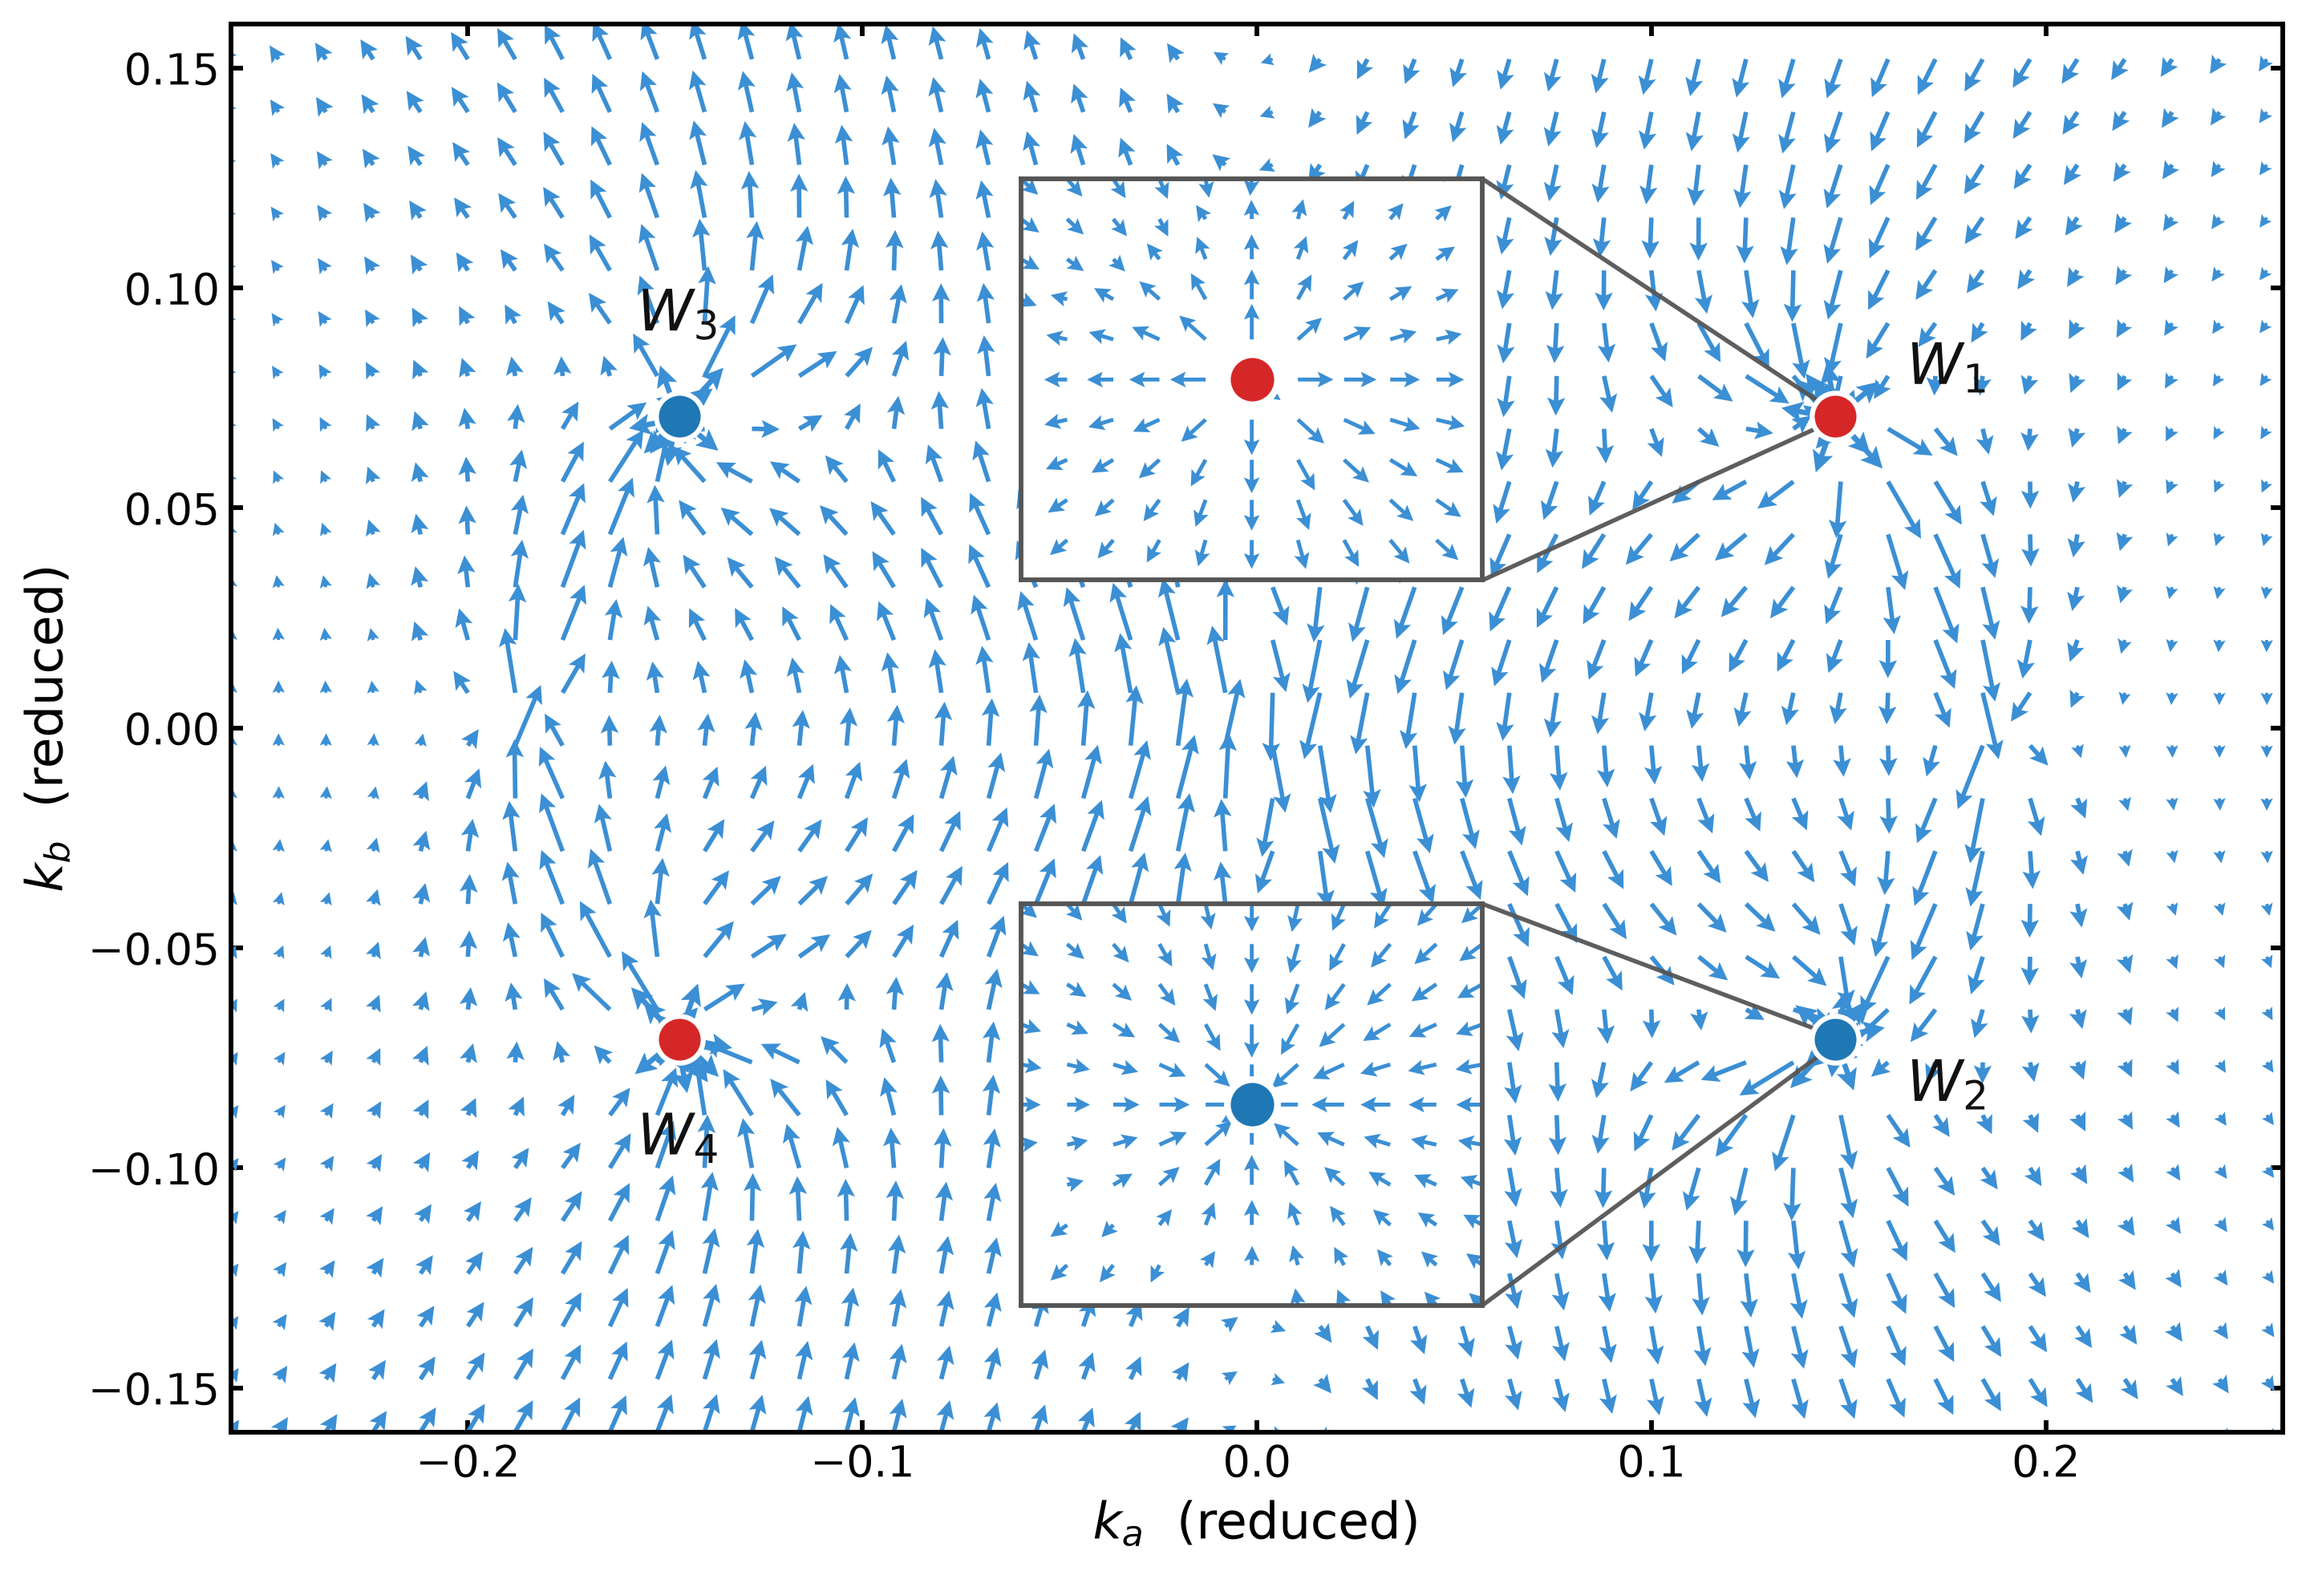
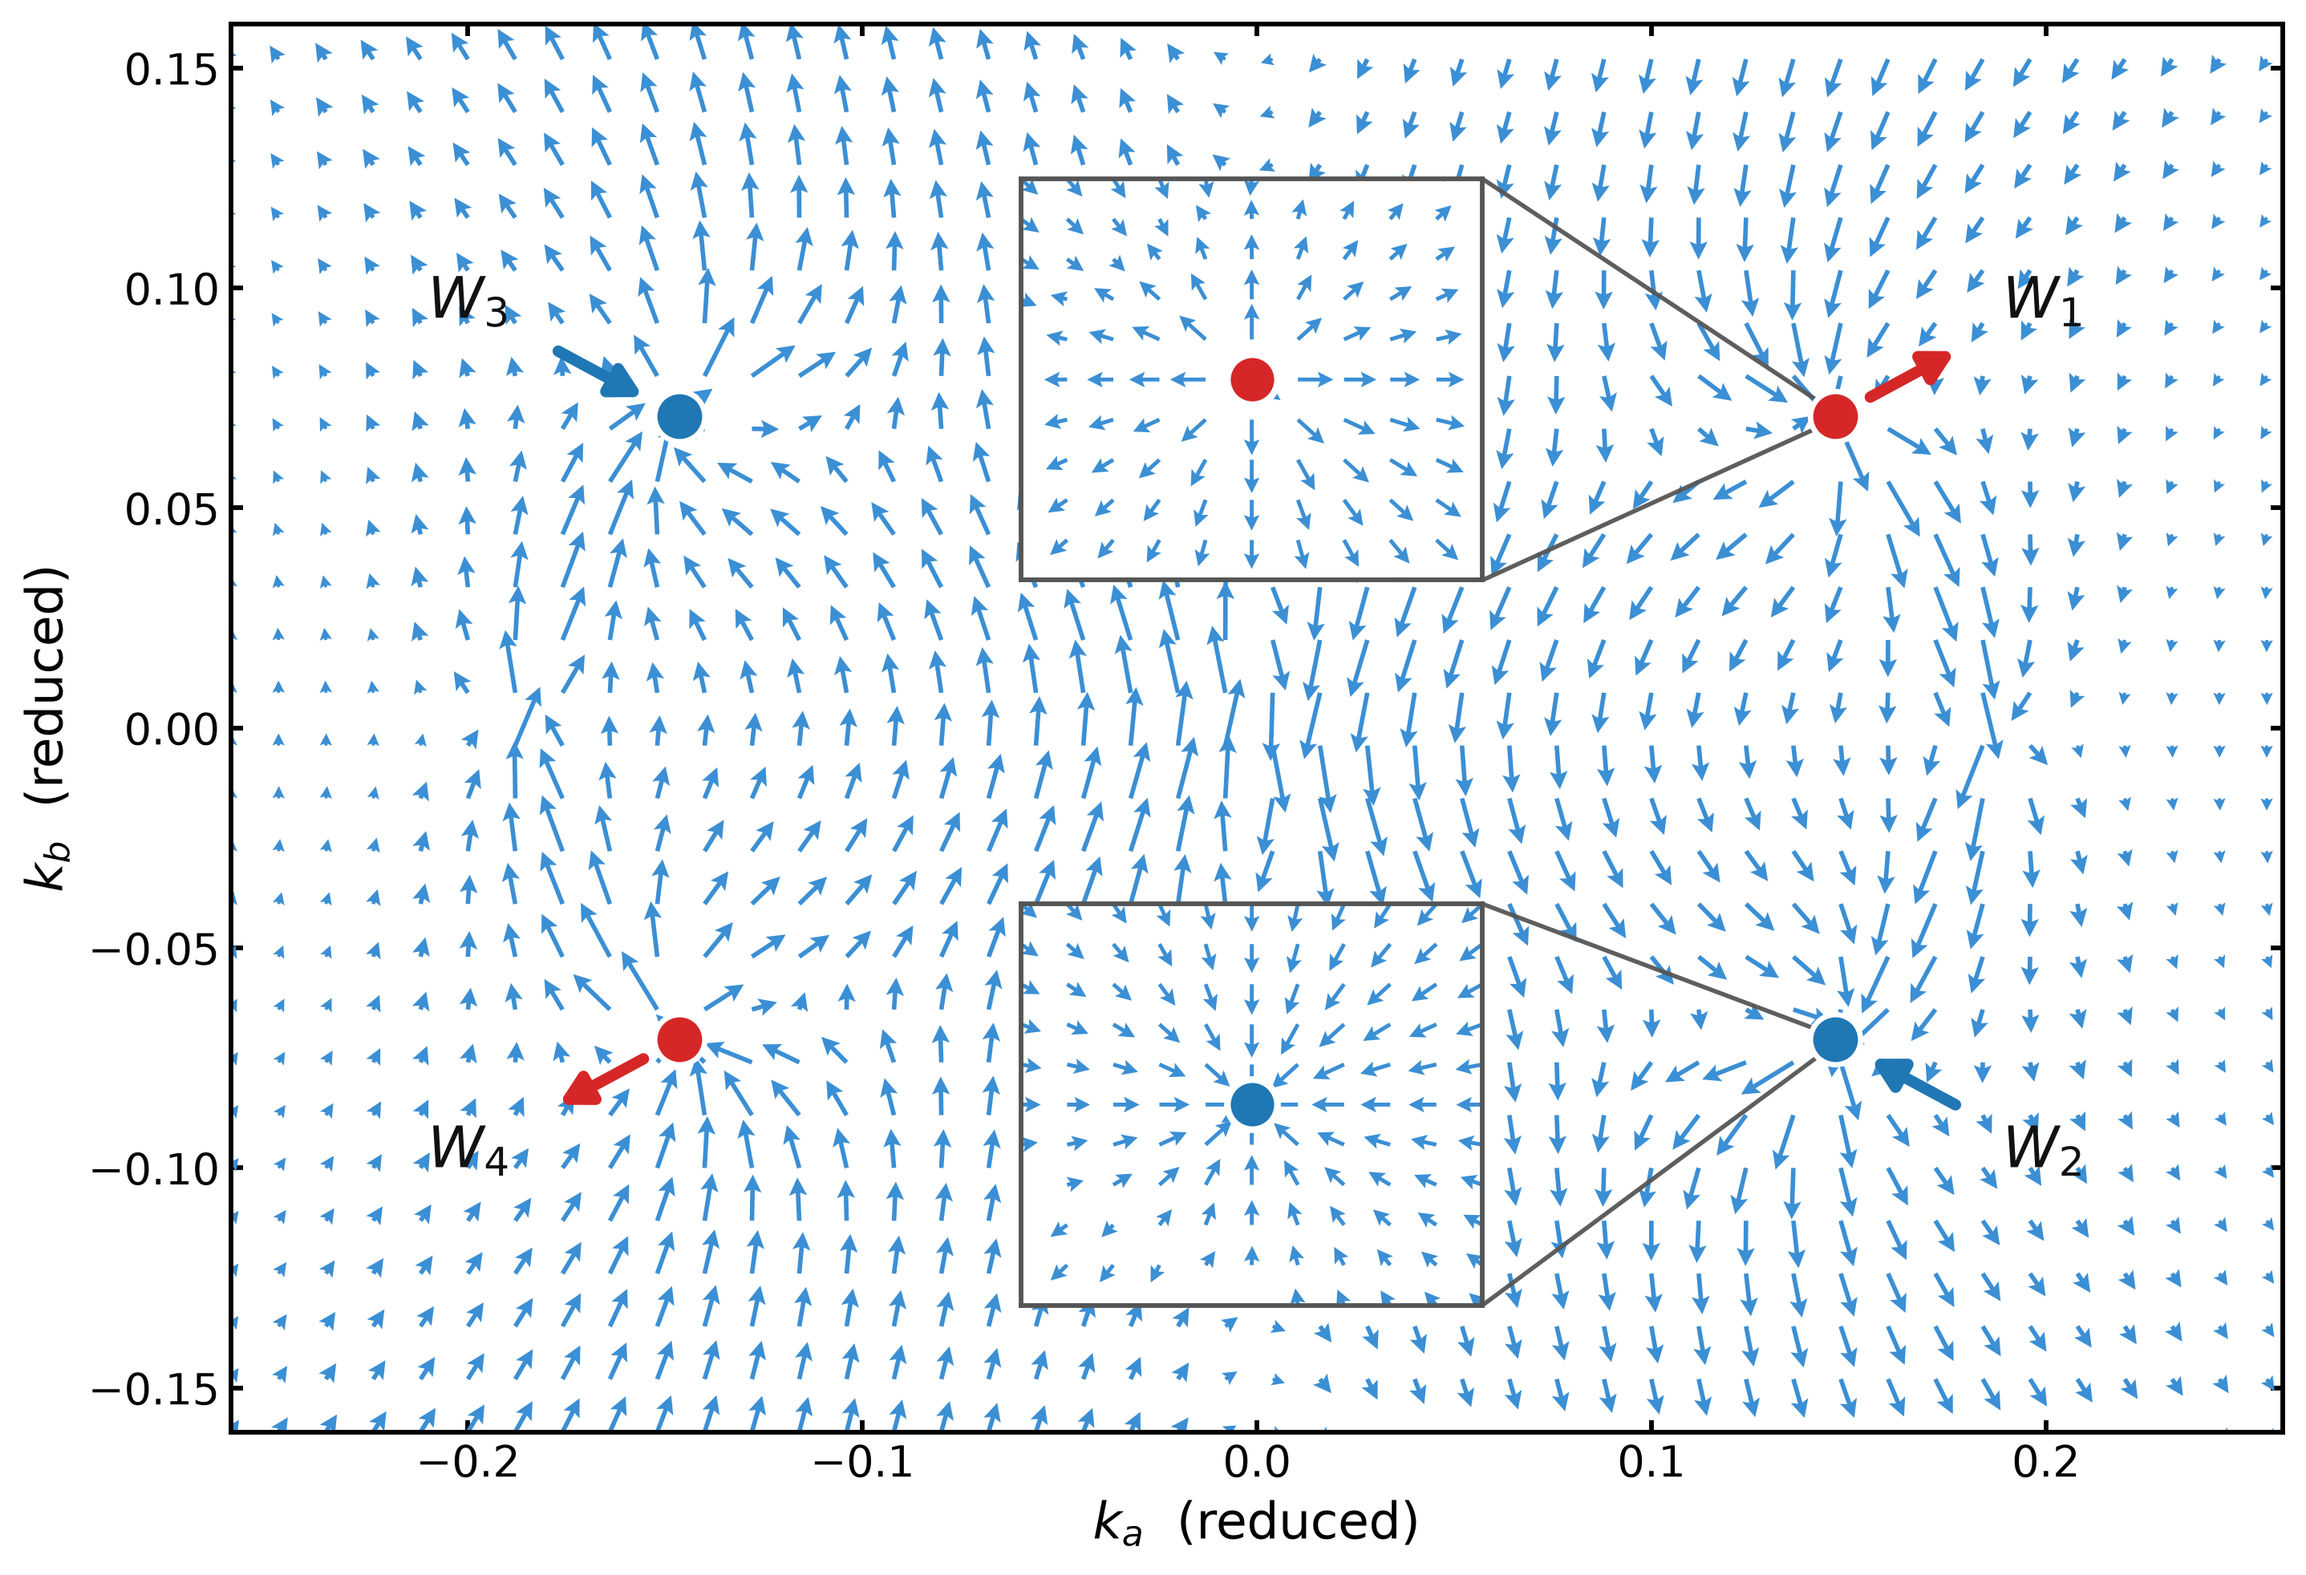
fig9: 노드 링 뭉치를 노드당 화살표 하나로 대체
극 근처에 링을 촘촘히 그리면 뭉쳐서 안 읽힌다.  배경 제거 후 근거리 장이
완전히 방사형(r=0.0006 에서 바깥/안쪽 100%)이므로 부호 하나로 정보가 다 담긴다.

- ring_field 오버레이와 격자 마스크 제거 -> 노드 주변 격자 화살표가 되살아남
- 노드당 굵은 화살표 하나.  chi=+1 은 밖으로(빨강), chi=-1 은 안으로(파랑).
  방향은 Gamma 에서 멀어지는 쪽으로 통일, 라벨은 그 바깥에 배치.

Claude-Session: https://claude.ai/code/session_01QhAUpBYpemnn6yKhi2Mgwn

diff --git a/scripts/figs/fig9_berry_field.py b/scripts/figs/fig9_berry_field.py
@@ -226,22 +226,26 @@ def uquiver(ax, A, B, u, v, lo=8, hi=99, floor=0.18, **kw):
 fig, ax = plt.subplots(figsize=(11.0, 7.6))
 st = 3
 A, B = np.meshgrid(ka[::st], kb[::st], indexing='ij')
-U, V = Oa[::st, ::st].copy(), Ob[::st, ::st].copy()
-near = np.zeros(A.shape, bool)                 # 링이 덮는 자리는 격자를 뺀다
-for a0, b0, _ in NODES:
-    near |= np.hypot(A - a0, B - b0) < 0.006
-U[near] = 0.0; V[near] = 0.0
-uquiver(ax, A, B, U, V, scale=30, width=0.0022, zorder=2)
-uquiver(ax, rP[:, 0], rP[:, 1], rO[:, 0].copy(), rO[:, 1].copy(),
-        scale=30, width=0.0026, zorder=3, lo=2, hi=98, floor=0.35)
+uquiver(ax, A, B, Oa[::st, ::st].copy(), Ob[::st, ::st].copy(),
+        scale=30, width=0.0022, zorder=2)
 
-LBL = {0: (34, 14), 1: (34, -14), 2: (0, 30), 3: (0, -30)}
+# 노드마다 화살표 하나로 요약한다.  링을 촘촘히 그리면 극에 뭉쳐 읽히지
+# 않고, 어차피 근거리 장은 완전히 방사형이라 (배경 제거 후 r=0.0006 에서
+# 바깥/안쪽 100 %) 부호 하나로 정보가 다 담긴다.
+# 방향은 Γ 에서 멀어지는 쪽으로 통일했고, 라벨은 그 화살표 바깥에 둔다.
+AL0, AL1, LBL = 0.010, 0.034, 0.059            # 화살표 시작/끝, 라벨 거리
 for n, (a, bb, c) in enumerate(NODES):
-    ax.plot(a, bb, 'o', ms=14, color=RED if c > 0 else BLU,
-            mec='white', mew=1.5, zorder=7)
-    ax.annotate('$W_%d$' % (n + 1), xy=(a, bb), xytext=LBL[n],
-                textcoords='offset points', color='#111111', ha='center',
-                va='center', fontsize=17, fontweight='bold', zorder=8)
+    u = np.array([a, bb]) / np.hypot(a, bb)
+    col = RED if c > 0 else BLU
+    tail, head = (u * AL0, u * AL1) if c > 0 else (u * AL1, u * AL0)
+    ax.annotate('', xy=(a + head[0], bb + head[1]),
+                xytext=(a + tail[0], bb + tail[1]), zorder=9,
+                arrowprops=dict(arrowstyle='-|>,head_width=0.30,head_length=0.55',
+                                color=col, lw=3.4, shrinkA=0, shrinkB=0))
+    ax.plot(a, bb, 'o', ms=15, color=col, mec='white', mew=1.6, zorder=10)
+    ax.annotate('$W_%d$' % (n + 1), xy=(a + u[0] * LBL, bb + u[1] * LBL),
+                color='#111111', ha='center', va='center', fontsize=17,
+                fontweight='bold', zorder=10)
 
 # 확대 인셋 — 노드가 없는 가운데 세로 띠에 두고 연결선으로 잇는다
 for (a, bb, c), xa, xb, ua, ub, loc in zip(
